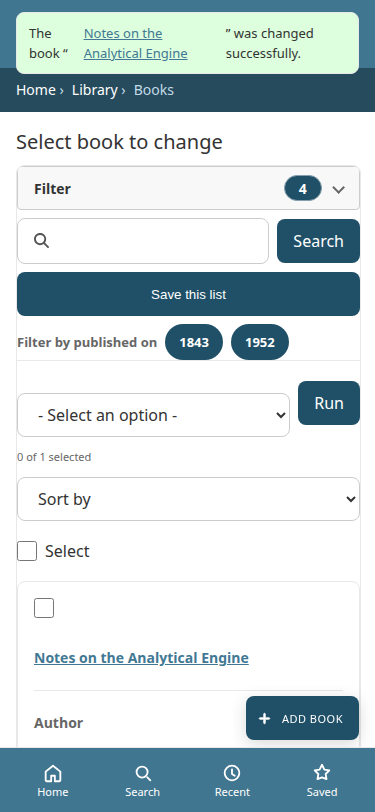
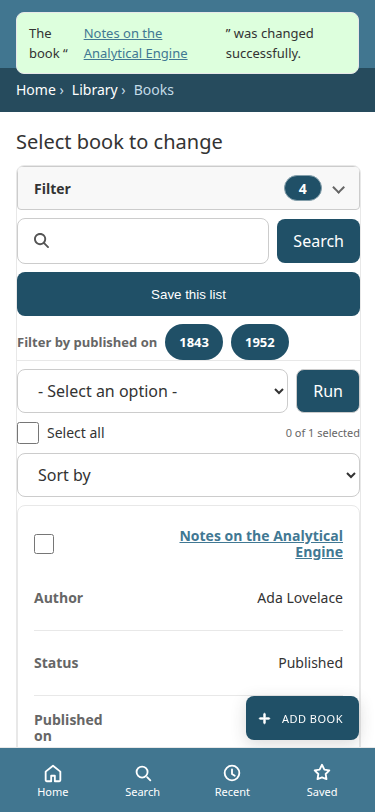
Align the action select with Run and keep one Select all control.
The action menu and Run share a 44px row and the same radius. Select all sits in that actions block, and each card checkbox stays on the title line.

diff --git a/src/admin_mobile/static/admin_mobile/css/admin_mobile_features.css b/src/admin_mobile/static/admin_mobile/css/admin_mobile_features.css
@@ -1351,7 +1351,6 @@ html[data-theme="auto"].admin-mobile {
     html.admin-mobile body.change-list #changelist .actions,
     html.admin-mobile body.change-list .toplinks,
     html.admin-mobile body.change-list .admin-mobile-sort,
-    html.admin-mobile body.change-list .admin-mobile-select-all,
     html.admin-mobile body.change-list .admin-mobile-filter-toggle {
         width: 100%;
         max-width: 100%;
@@ -1364,7 +1363,6 @@ html[data-theme="auto"].admin-mobile {
     }
 
     html.admin-mobile body.change-list .toplinks,
-    html.admin-mobile body.change-list .admin-mobile-select-all,
     html.admin-mobile body.change-list #changelist .actions .action-counter {
         padding: 0;
         margin-left: 0;
@@ -1372,48 +1370,87 @@ html[data-theme="auto"].admin-mobile {
     }
 
     html.admin-mobile body.change-list #changelist .actions {
-        display: grid;
-        grid-template-columns: minmax(0, 1fr) auto;
+        display: flex;
+        flex-direction: row;
+        flex-wrap: wrap;
         align-items: center;
         gap: var(--am-space);
+        padding: 0;
     }
 
-    html.admin-mobile body.change-list #changelist .actions label {
+    html.admin-mobile body.change-list #changelist .actions label:not(.admin-mobile-select-all) {
         display: block;
-        grid-column: 1;
-        grid-row: 1;
-        width: 100%;
+        flex: 1 1 calc(100% - 5.5rem);
+        width: auto;
+        min-width: 0;
         margin: 0;
         font-size: 0;
+        line-height: 0;
     }
 
     html.admin-mobile body.change-list #changelist .actions select,
     html.admin-mobile body.change-list .admin-mobile-sort select {
         display: block;
+        flex: 1 1 auto;
         width: 100%;
         height: var(--am-tap);
         min-height: var(--am-tap);
+        max-height: var(--am-tap);
         margin: 0;
         padding: 0 var(--am-pad);
+        border-radius: var(--am-radius);
         font-size: 16px;
+        line-height: calc(var(--am-tap) - 2px);
         box-sizing: border-box;
     }
 
     html.admin-mobile body.change-list #changelist .actions .button,
     html.admin-mobile body.change-list #changelist .actions button {
-        grid-column: 2;
-        grid-row: 1;
+        display: inline-flex;
+        align-items: center;
+        justify-content: center;
+        flex: 0 0 auto;
         width: auto;
         height: var(--am-tap);
+        min-height: var(--am-tap);
+        max-height: var(--am-tap);
         margin: 0;
         padding: 0 var(--am-pad);
+        border: 1px solid var(--border-color);
+        border-radius: var(--am-radius);
+        box-sizing: border-box;
+        font-size: 16px;
+        line-height: 1;
     }
 
     html.admin-mobile body.change-list #changelist .actions .action-counter {
-        grid-column: 1 / -1;
-        grid-row: 2;
+        flex: 0 1 auto;
+        order: 2;
+        width: auto;
+        margin: 0 0 0 auto;
+        padding: 0;
+    }
+
+    html.admin-mobile body.change-list #changelist .actions .admin-mobile-select-all {
+        display: inline-flex;
+        flex-direction: row;
+        align-items: center;
+        order: 1;
+        gap: var(--am-space);
+        flex: 0 1 auto;
+        width: auto;
+        min-height: 0;
         margin: 0;
         padding: 0;
+        font-size: 0.875rem;
+        line-height: 1.2;
+        color: var(--body-fg);
+    }
+
+    html.admin-mobile body.change-list #changelist .actions .admin-mobile-select-all input {
+        width: 22px;
+        height: 22px;
+        margin: 0;
     }
 
     html.admin-mobile body.change-list .toplinks {
@@ -1421,20 +1458,40 @@ html[data-theme="auto"].admin-mobile {
         gap: var(--am-space);
     }
 
-    html.admin-mobile body.change-list .admin-mobile-select-all {
-        min-height: var(--am-tap);
-        padding: 0;
-    }
-
     html.admin-mobile-cards body.change-list #result_list tbody tr {
-        margin: 0;
+        display: grid;
+        grid-template-columns: auto minmax(0, 1fr);
+        align-items: center;
+        column-gap: var(--am-space);
+        margin: 0 0 var(--am-space);
         padding: var(--am-pad);
     }
 
+    html.admin-mobile-cards body.change-list #result_list tbody td,
+    html.admin-mobile-cards body.change-list #result_list tbody th {
+        grid-column: 1 / -1;
+    }
+
     html.admin-mobile-cards body.change-list #result_list .action-checkbox {
+        display: flex;
+        align-items: center;
+        grid-column: 1;
+        grid-row: 1;
+        width: auto;
         min-height: 0;
-        padding: 0 0 var(--am-space);
+        padding: 0;
         border: 0;
+    }
+
+    html.admin-mobile-cards body.change-list #result_list .action-checkbox + th,
+    html.admin-mobile-cards body.change-list #result_list .action-checkbox + td,
+    html.admin-mobile-cards body.change-list #result_list .admin-mobile-card-title {
+        grid-column: 2;
+        grid-row: 1;
+        min-height: 0;
+        padding-top: 0;
+        padding-bottom: 0;
+        border-bottom: 0;
     }
 }
 

diff --git a/src/admin_mobile/static/admin_mobile/js/admin_mobile.js b/src/admin_mobile/static/admin_mobile/js/admin_mobile.js
@@ -138,7 +138,7 @@
     function initSelectAll(table) {
         var toggle = document.getElementById("action-toggle");
         var parent = table.parentElement;
-        if (!toggle || !parent || parent.querySelector(".admin-mobile-select-all")) {
+        if (!toggle || !parent || document.getElementById("admin-mobile-select-all")) {
             return;
         }
         var label = document.createElement("label");
@@ -147,8 +147,13 @@
         input.type = "checkbox";
         input.id = "admin-mobile-select-all";
         label.appendChild(input);
-        label.appendChild(document.createTextNode(" " + selectLabel()));
-        table.insertAdjacentElement("beforebegin", label);
+        label.appendChild(document.createTextNode(" Select all"));
+        var actions = document.querySelector("#changelist .actions");
+        if (actions) {
+            actions.appendChild(label);
+        } else {
+            table.insertAdjacentElement("beforebegin", label);
+        }
         input.addEventListener("change", function () {
             if (toggle.checked !== input.checked) {
                 toggle.click();

diff --git a/src/admin_mobile/__init__.py b/src/admin_mobile/__init__.py
@@ -1,3 +1,3 @@
 """Phone ergonomics for the native Django admin."""
 
-__version__ = "0.2.3"
+__version__ = "0.2.4"

diff --git a/CHANGELOG.md b/CHANGELOG.md
@@ -1,5 +1,10 @@
 # Changelog
 
+## 0.2.4
+
+- The action menu and Run share one 44px row and the same corner radius. Run stays only as wide as its label.
+- “Select all” sits in that actions block. Each card keeps one checkbox, on the same line as the title.
+
 ## 0.2.3
 
 - Changelist controls share one left and right edge. The action menu and Sort by are the same full-width select with 16px of inner padding. The card no longer repeats a second “Select” label.

diff --git a/README.md b/README.md
@@ -167,9 +167,9 @@ uv run tox
 
 ## Publishing
 
-0.1.0 is already on PyPI. This tree is 0.2.3 and is not published from here.
+0.1.0 is already on PyPI. This tree is 0.2.4 and is not published from here.
 
-1. Tag `0.2.3` when you want a release.
+1. Tag `0.2.4` when you want a release.
 2. Build: `uv build`.
 3. Publish: `uv publish` with a PyPI token.
 
